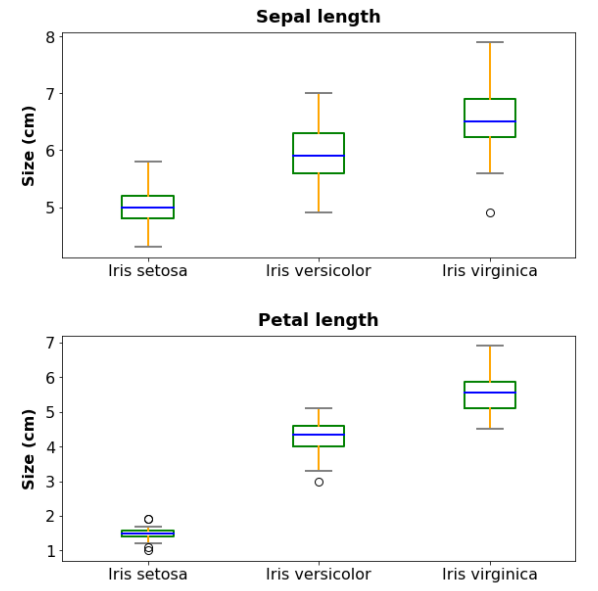
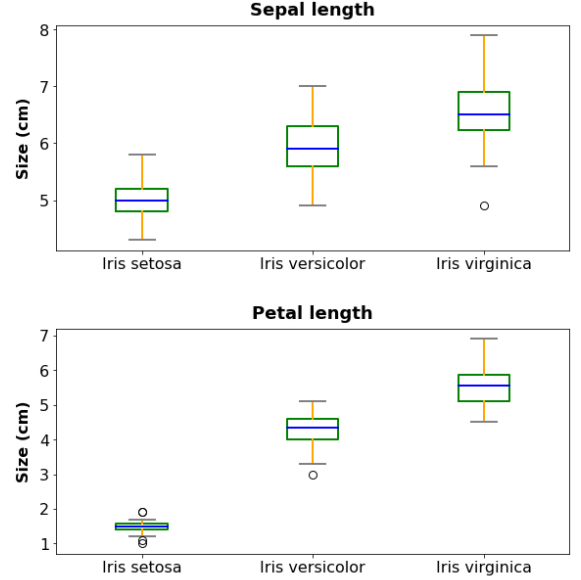
Updated Files

diff --git a/doc/Topics and Documents.rst b/doc/Topics and Documents.rst
@@ -60,14 +60,14 @@ Here some examples:
 
 Scatterplot
 ^^^^^^^^^^^^
-.. image:: iris_scatterplot.PNG
+.. image:: iris_scatterplot.png
    :scale: 80 %
 
 |
 
 Boxplot
 ^^^^^^^^
-.. image:: iris_boxplot.PNG
+.. image:: iris_boxplot.png
    :scale: 80 %
 
 |
